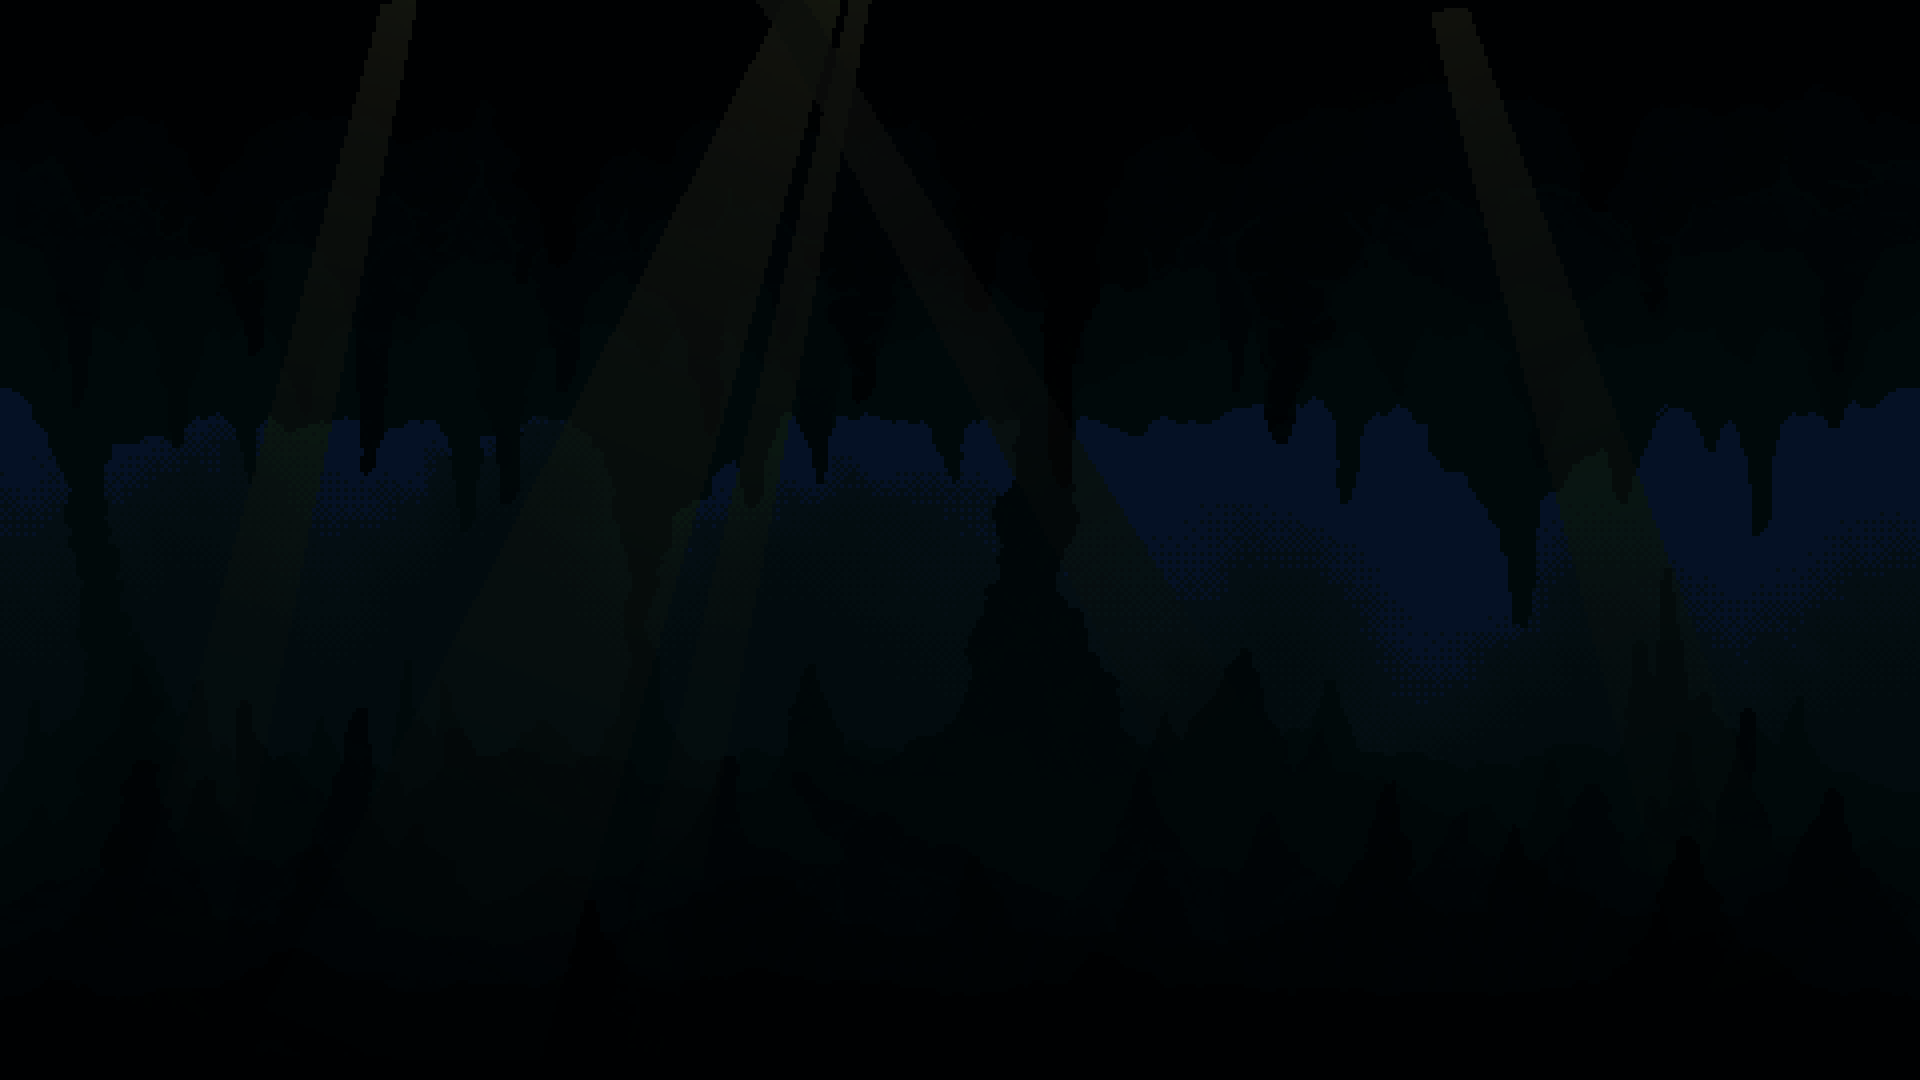
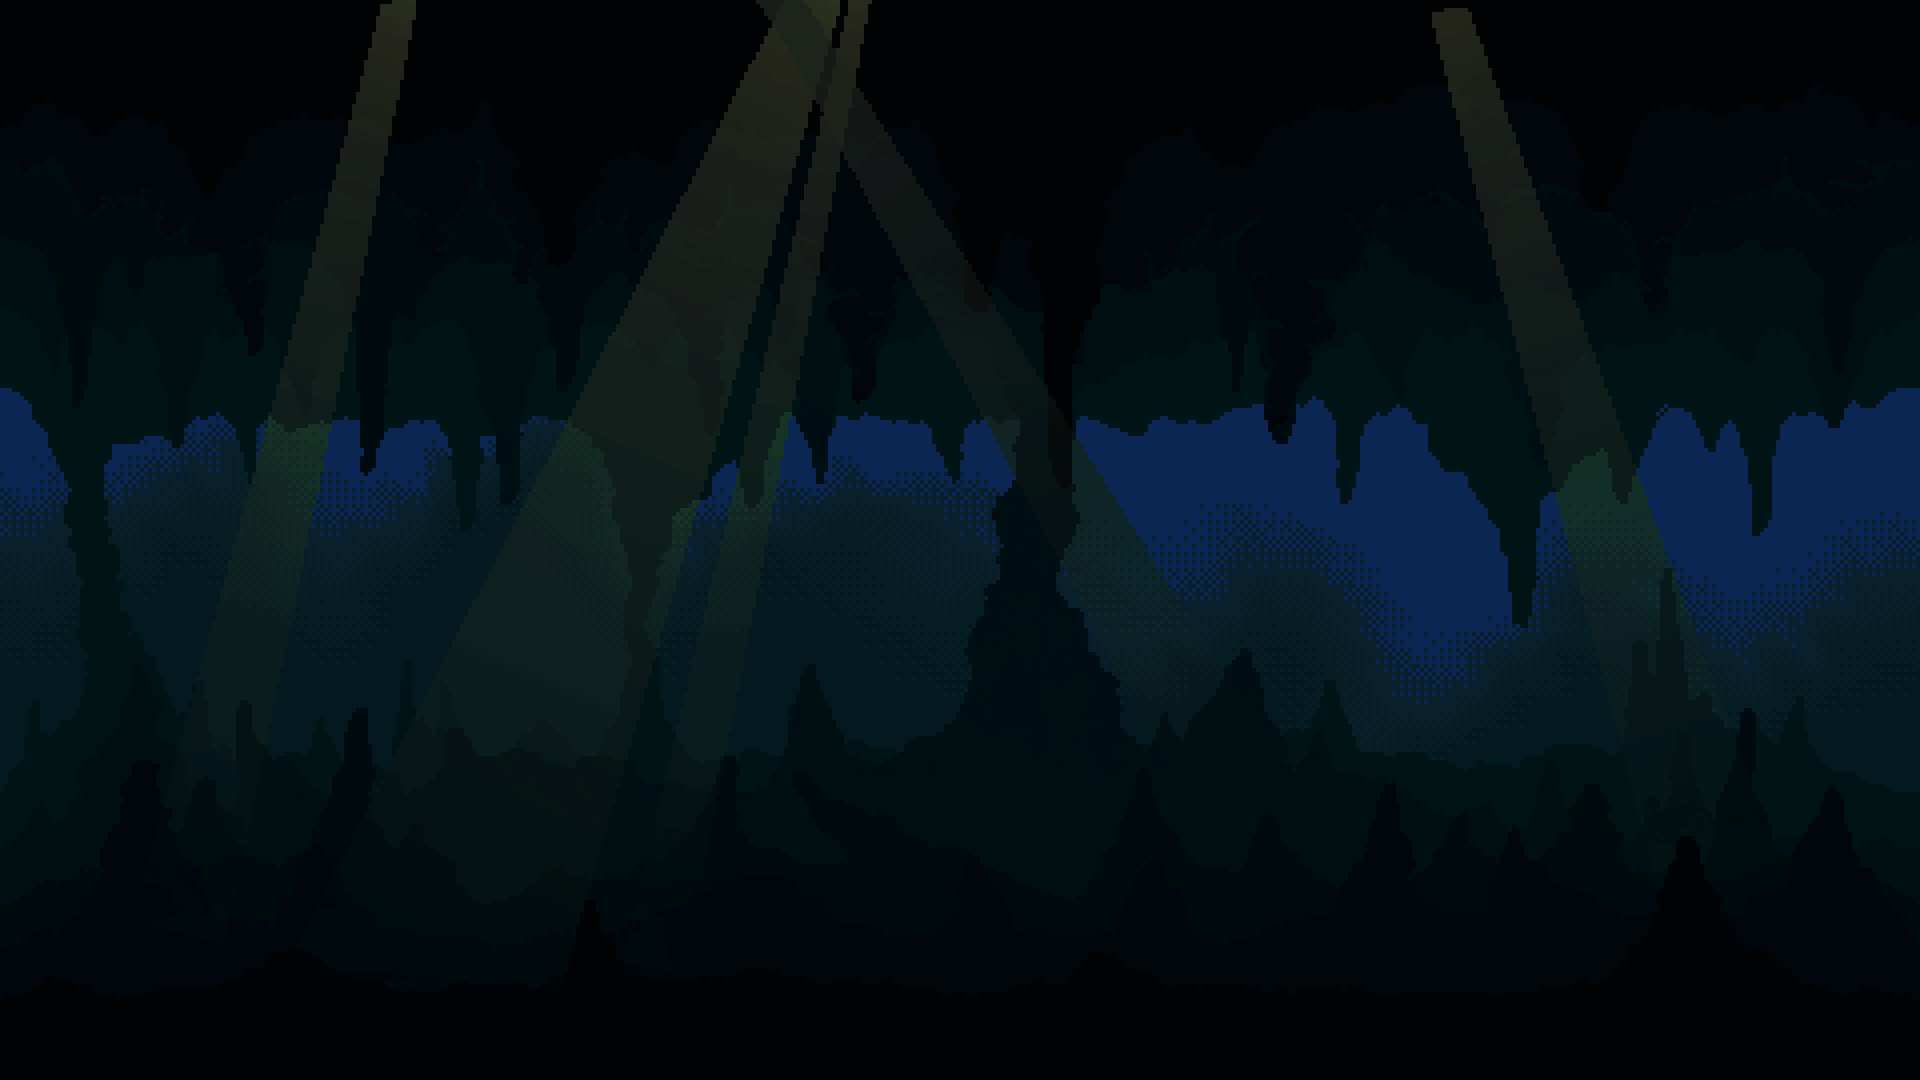
changed dialogue background brightness

diff --git a/index.html b/index.html
@@ -32,11 +32,11 @@
     <div id="loadingScreen"></div>
 
 <body style="overflow-x: hidden;">
-  <div id="black-screen" style="position: fixed; top: 0; left: 0; width: 100vw; height: 100vh; background-image: url('images/parallaxCave/9.png'), url('images/parallaxCave/7.png'), url('images/parallaxCave/5.png'), url('images/parallaxCave/4.png'), url('images/parallaxCave/2.png'), url('images/parallaxCave/1.png'); z-index: 999;">
+  <div id="black-screen" style="position: fixed; top: 0; left: 0; width: 100vw; height: 100vh; background-image: url('images/parallaxCave/fullbackground.png'); z-index: 999;">
     <div id="dialogueBox" style="display: flex; justify-content: center; align-items: center; height: 100vh;">
       
       <button class="button-UI" id="playButton" style="position: absolute; top: 60%; left: 50%; transform: translate(-50%, -50%); z-index: 1000; font-size: 30px; display: none;">Start</button>
-      <div id="dialogue" class="text-white container text-center" style="filter: brightness(1)">
+      <div id="dialogue" class="text-white container text-center">
       </div>
       <button class="button-UI" id="nextButton" style="position: absolute; top: 63%; left: 50%; transform: translate(-50%, -50%); display: none;">Next </button>
       <div id="flashlight"></div>
